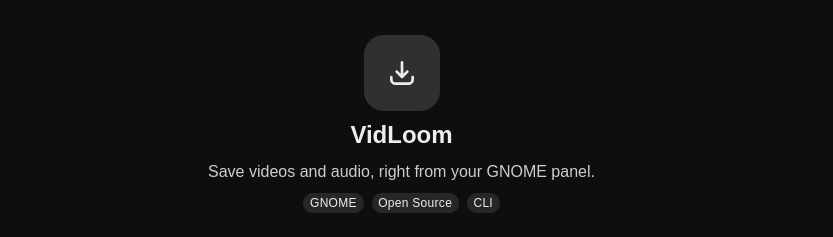
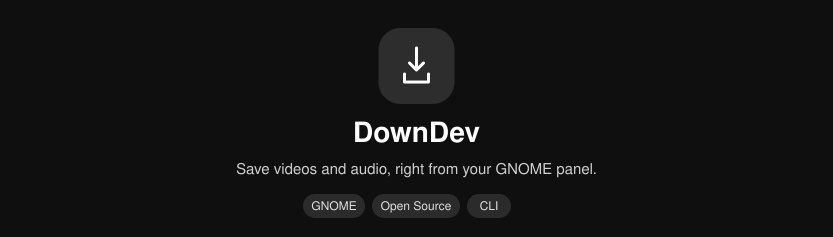
rebrand: update product name to DownDev and address review feedback

diff --git a/src/index.ts b/src/index.ts
@@ -26,18 +26,19 @@ type Mode = 'video' | 'podcast';
 
 function showLogo(): void {
   const red = chalk.red.bold;
+  const cyan = chalk.cyan.bold;
   const white = chalk.white;
   const dim = chalk.dim;
 
   console.log('');
-  console.log(white('  ⬡ ⬢ ⬡') + '     ' + red('██╗   ██╗ ████████╗') + '        ' + red('██████╗   ██████╗  ██╗    ██╗ ███╗   ██╗'));
-  console.log(white(' ⬢ ⬡ ⬢ ⬡') + '    ' + red('╚██╗ ██╔╝ ╚══██╔══╝') + '        ' + red('██╔══██╗ ██╔═══██╗ ██║    ██║ ████╗  ██║'));
-  console.log(white('⬡ ⬢ ⬡ ⬢ ⬡') + '   ' + red(' ╚████╔╝     ██║   ') + red('█████╗') + ' ' + red('██║  ██║ ██║   ██║ ██║ █╗ ██║ ██╔██╗ ██║'));
-  console.log(white(' ⬢ ⬡ ⬢ ⬡') + '    ' + red('  ╚██╔╝      ██║   ') + red('╚════╝') + ' ' + red('██║  ██║ ██║   ██║ ██║███╗██║ ██║╚██╗██║'));
-  console.log(white('  ⬡ ⬢ ⬡') + '     ' + red('   ██║       ██║   ') + '        ' + red('██████╔╝ ╚██████╔╝ ╚███╔███╔╝ ██║ ╚████║'));
-  console.log(white('   ⬢ ⬡') + '      ' + red('   ╚═╝       ╚═╝   ') + '        ' + red('╚═════╝   ╚═════╝   ╚══╝╚══╝  ╚═╝  ╚═══╝'));
+  console.log(white('  ⬡ ⬢ ⬡') + '   ' + red('██████╗   ██████╗  ██╗    ██╗ ███╗   ██╗') + '   ' + cyan('██████╗  ███████╗ ██╗   ██╗'));
+  console.log(white(' ⬢ ⬡ ⬢ ⬡') + '  ' + red('██╔══██╗ ██╔═══██╗ ██║    ██║ ████╗  ██║') + '   ' + cyan('██╔══██╗ ██╔════╝ ██║   ██║'));
+  console.log(white('⬡ ⬢ ⬡ ⬢ ⬡') + ' ' + red('██║  ██║ ██║   ██║ ██║ █╗ ██║ ██╔██╗ ██║') + '   ' + cyan('██║  ██║ █████╗   ██║   ██║'));
+  console.log(white(' ⬢ ⬡ ⬢ ⬡') + '  ' + red('██║  ██║ ██║   ██║ ██║███╗██║ ██║╚██╗██║') + '   ' + cyan('██║  ██║ ██╔══╝   ╚██╗ ██╔╝'));
+  console.log(white('  ⬡ ⬢ ⬡') + '   ' + red('██████╔╝ ╚██████╔╝ ╚███╔███╔╝ ██║ ╚████║') + '   ' + cyan('██████╔╝ ███████╗  ╚████╔╝ '));
+  console.log(white('   ⬢ ⬡') + '    ' + red('╚═════╝   ╚═════╝   ╚══╝╚══╝  ╚═╝  ╚═══╝') + '   ' + cyan('╚═════╝  ╚══════╝   ╚═══╝  '));
   console.log('');
-  console.log(dim('        Interactive Video Downloader  v1.0'));
+  console.log(dim('                     DownDev Video Downloader  v1.0 (yt-down)'));
   console.log('');
 }
 
@@ -47,7 +48,7 @@ export async function main(): Promise<void> {
   showLogo();
 
   // Step 1 — Intro
-  p.intro(chalk.bgRed.white.bold(' ⬢  VidLoom  ⬢ ') + chalk.dim('  Interactive Video Downloader (yt-down)'));
+  p.intro(chalk.bgRed.white.bold(' ⬢  DownDev  ⬢ ') + chalk.dim('  Interactive Video Downloader (yt-down)'));
 
   // Step 2 — Select mode
   const mode = await p.select({

diff --git a/scripts/extension-smoke.ts b/scripts/extension-smoke.ts
@@ -232,14 +232,14 @@ else:
     if (process.env.YT_DOWN_SCREENSHOT_DIR) {
       await command(['dbus-update-activation-environment', `WAYLAND_DISPLAY=yt-down-smoke-${process.pid}`]);
       await evaluate("(() => { const e=globalThis.__getYtDown(); e.settings.set_string('output-directory',''); e.view.button.menu.close(); e.openPreferences(); return 'OK'; })()");
-      await waitFor(() => evaluate("global.get_window_actors().some(a=>a.meta_window.get_title()?.includes('VidLoom') || a.meta_window.get_title()?.includes('yt-down'))"), value => value.includes("'true'"), 'preferences window');
-      await evaluate("global.get_window_actors().find(a=>a.meta_window.get_title()?.includes('VidLoom') || a.meta_window.get_title()?.includes('yt-down')).meta_window.activate(global.get_current_time()); 'OK'");
+      await waitFor(() => evaluate("global.get_window_actors().some(a=>a.meta_window.get_title()?.includes('DownDev') || a.meta_window.get_title()?.includes('VidLoom') || a.meta_window.get_title()?.includes('yt-down'))"), value => value.includes("'true'"), 'preferences window');
+      await evaluate("global.get_window_actors().find(a=>a.meta_window.get_title()?.includes('DownDev') || a.meta_window.get_title()?.includes('VidLoom') || a.meta_window.get_title()?.includes('yt-down')).meta_window.activate(global.get_current_time()); 'OK'");
       await evaluate("globalThis.__clearNotifications(); 'OK'");
       await delay(800);
-      const bounds = await evaluate("(() => { const w=global.get_window_actors().find(a=>a.meta_window.get_title()?.includes('VidLoom') || a.meta_window.get_title()?.includes('yt-down')).meta_window; const r=w.get_frame_rect(); return [r.x,r.y,r.width,r.height].join(','); })()");
+      const bounds = await evaluate("(() => { const w=global.get_window_actors().find(a=>a.meta_window.get_title()?.includes('DownDev') || a.meta_window.get_title()?.includes('VidLoom') || a.meta_window.get_title()?.includes('yt-down')).meta_window; const r=w.get_frame_rect(); return [r.x,r.y,r.width,r.height].join(','); })()");
       await command(['gdbus','call','--session','--dest','org.gnome.Shell.Screenshot','--object-path','/org/gnome/Shell/Screenshot',
         '--method','org.gnome.Shell.Screenshot.ScreenshotArea',...bounds.match(/\d+,\d+,\d+,\d+/)![0].split(','),'false',join(process.env.YT_DOWN_SCREENSHOT_DIR,'preferences.png')]);
-      await evaluate("global.get_window_actors().find(a=>a.meta_window.get_title()?.includes('VidLoom') || a.meta_window.get_title()?.includes('yt-down')).meta_window.delete(global.get_current_time()); 'OK'");
+      await evaluate("global.get_window_actors().find(a=>a.meta_window.get_title()?.includes('DownDev') || a.meta_window.get_title()?.includes('VidLoom') || a.meta_window.get_title()?.includes('yt-down')).meta_window.delete(global.get_current_time()); 'OK'");
     }
     for (const phase of ['metadata', 'active', 'retry', 'stubborn']) {
       await evaluate(`(() => { const e=globalThis.__getYtDown(); e.clear(); e.settings.set_boolean('download-on-paste',false); e.settings.set_boolean('clipboard-autofetch',false); e.settings.set_string('output-directory',${JSON.stringify(join(dir, 'downloads'))}); e.setEntry('https://youtu.be/disable-${phase}'); e.fetchFormats(); return 'OK'; })()`);

diff --git a/extension/src/prefs.ts b/extension/src/prefs.ts
@@ -8,7 +8,7 @@ export default class YtDownPreferences extends ExtensionPreferences {
   fillPreferencesWindow(window: Adw.PreferencesWindow): Promise<void> {
     window.set_default_size(640, 760);
     const settings = this.getSettings();
-    const page = new Adw.PreferencesPage({ title: 'VidLoom', icon_name: 'folder-download-symbolic' });
+    const page = new Adw.PreferencesPage({ title: 'DownDev', icon_name: 'folder-download-symbolic' });
     const group = new Adw.PreferencesGroup({ title: 'Downloads',
       description: 'Uses yt-dlp to save videos and audio. ffmpeg enables conversion and merging; Deno enables YouTube support.' });
     const directory = new Adw.EntryRow({ title: 'Download folder (empty = Videos/yt-down)' });
@@ -36,7 +36,7 @@ export default class YtDownPreferences extends ExtensionPreferences {
       subtitle: findTool('ffmpeg') ? 'ffmpeg is available.' : 'ffmpeg is missing. Original single-stream formats can still download.' }));
     const help = new Adw.ActionRow({ title: 'Installation guide', subtitle: 'Dependencies and setup instructions', activatable: true });
     help.add_suffix(new Gtk.Image({ icon_name: 'external-link-symbolic' }));
-    help.connect('activated', () => { Gio.AppInfo.launch_default_for_uri_async('https://github.com/drissnafii/yt-down#gnome-shell-extension-typescript', null, null, (_app, result) => {
+    help.connect('activated', () => { Gio.AppInfo.launch_default_for_uri_async('https://github.com/drissnafii/yt-down#install-the-extension', null, null, (_app, result) => {
       try { Gio.AppInfo.launch_default_for_uri_finish(result); } catch (error) { logError(error instanceof Error ? error : new Error(String(error))); }
     }); });
     setup.add(help);

diff --git a/extension/src/popup-view.ts b/extension/src/popup-view.ts
@@ -41,7 +41,7 @@ export class PopupView {
   private disposed = false;
 
   constructor(private callbacks: Callbacks) {
-    this.button = new PanelMenu.Button(0.0, 'VidLoom');
+    this.button = new PanelMenu.Button(0.0, 'DownDev');
     const menu = this.button.menu as PopupMenu.PopupMenu;
     menu.actor.add_style_class_name('yt-down-popup');
 
@@ -61,7 +61,7 @@ export class PopupView {
     const content = column('yt-down-content');
     menu.box.add_child(content);
     const header = new St.BoxLayout({ style_class: 'yt-down-header' });
-    header.add_child(label('VidLoom', 'yt-down-heading'));
+    header.add_child(label('DownDev', 'yt-down-heading'));
     const settings = new St.Button({ can_focus: true, accessible_name: 'Settings', style_class: 'yt-down-icon-button' });
     settings.set_child(icon('emblem-system-symbolic'));
     settings.connect('clicked', () => { this.button?.menu.close(); this.callbacks.preferences(); });
@@ -301,7 +301,7 @@ export class PopupView {
     this.panelRing.visible = ring; this.panelRing.queue_repaint();
     this.panelActivity.visible = active && !ring;
     if (active && !ring && motionAllowed()) this.panelActivity.play(); else this.panelActivity.stop();
-    this.button.accessible_name = this.active ? `VidLoom, ${this.active} downloads active, ${this.queued} queued`
-      : this.busy() ? 'VidLoom, finding video' : 'VidLoom';
+    this.button.accessible_name = this.active ? `DownDev, ${this.active} downloads active, ${this.queued} queued`
+      : this.busy() ? 'DownDev, finding video' : 'DownDev';
   }
 }

diff --git a/extension/src/download-manager.ts b/extension/src/download-manager.ts
@@ -95,9 +95,9 @@ export class DownloadManager {
       case 'file': job.filePath = event.path; break;
       case 'complete':
         job.state = 'complete'; job.percent = 100; job.directory = event.directory; job.view.saved(job.filePath);
-        Main.notify('VidLoom', `Saved: ${job.title}`); break;
+        Main.notify('DownDev', `Saved: ${job.title}`); break;
       case 'cancelled': job.state = 'cancelled'; job.view.cancelled(); break;
-      case 'error': job.state = 'error'; job.view.failed(event.message); Main.notifyError('VidLoom', `${job.title}: ${event.message}`); break;
+      case 'error': job.state = 'error'; job.view.failed(event.message); Main.notifyError('DownDev', `${job.title}: ${event.message}`); break;
       case 'formats': break;
     }
     this.callbacks.changed();

diff --git a/README.md b/README.md
@@ -1,8 +1,8 @@
 <p align="center">
-  <img src="docs/banner.png" alt="VidLoom banner" width="800">
+  <img src="docs/banner.png" alt="DownDev banner" width="800">
 </p>
 
-# VidLoom
+# DownDev
 
 > **Save videos and audio, right from your GNOME panel.**
 
@@ -10,9 +10,9 @@
 [![License: MIT](https://img.shields.io/badge/License-MIT-yellow.svg)](LICENSE)
 [![CLI](https://img.shields.io/badge/CLI-yt--down-green)](bin/yt-down.ts)
 
-**VidLoom** is a video and audio downloader for the GNOME desktop environment, powered by **yt-dlp**. It integrates directly into your GNOME top panel to let you download videos in resolutions up to 4K and extract MP3 audio with live progress, speed tracking, and queue management.
+**DownDev** is a video and audio downloader for the GNOME desktop environment, powered by **yt-dlp**. It integrates directly into your GNOME top panel to let you download videos in resolutions up to 4K and extract MP3 audio with live progress, speed tracking, and queue management.
 
-VidLoom also includes a companion interactive terminal CLI (`yt-down`) built with `@clack/prompts` and `chalk`.
+DownDev also includes a companion interactive terminal CLI (`yt-down`) built with `@clack/prompts` and `chalk`.
 
 ## Features
 
@@ -209,9 +209,10 @@ live YouTube download using cached metadata.
 package. MIT permits redistribution under GPL-compatible terms required for
 GNOME Shell extensions; third-party components retain their own notices.
 
-## GNOME Shell extension — VidLoom (TypeScript)
+<a id="gnome-shell-extension-typescript"></a>
+## GNOME Shell extension — DownDev (TypeScript)
 
-The panel extension, **VidLoom**, lives in `extension/` and supports **GNOME Shell 51**,
+The panel extension, **DownDev**, lives in `extension/` and supports **GNOME Shell 51**,
 which is covered by the isolated UI smoke test. Earlier versions are not declared
 until they are tested. The interface remains TypeScript compiled to GJS; **Bun
 is not required to run the installed extension**. Paste

diff --git a/docs/gnome-listing.md b/docs/gnome-listing.md
@@ -4,7 +4,7 @@ This kit is ready for maintainer review; it has not been submitted or approved.
 
 ## Description
 
-VidLoom — Video & Audio Downloader for GNOME
+DownDev — Video & Audio Downloader for GNOME
 
 Save videos and audio directly from your GNOME panel using yt-dlp.
 
